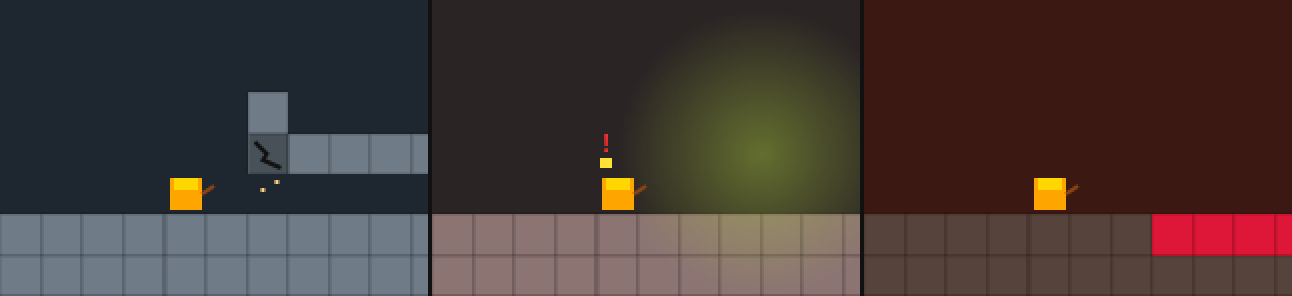
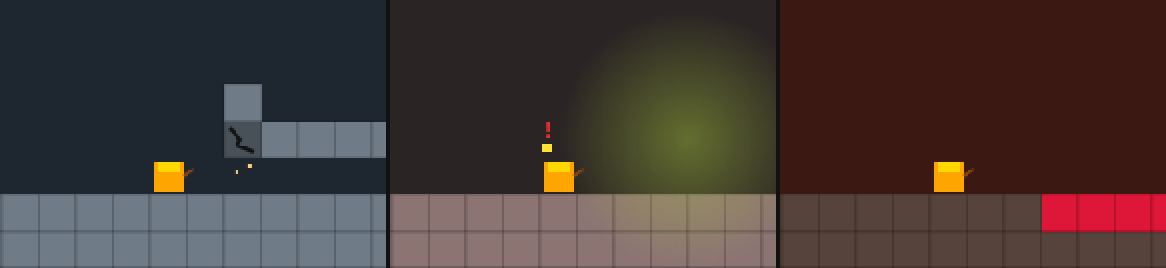
docs: новые скриншоты 1.8.0
Assisted-by: Claude (Anthropic)

diff --git a/README.md b/README.md
@@ -8,7 +8,7 @@
 
 ![Общий вид игры](docs/screenshots/overview.png)
 
-*Поверхность с лавкой скупщика, справа — панель: здоровье, рюкзак с содержимым, деньги, инструменты, сохранения.*
+*Слева — сохранения, радио, видео и настройки, в центре — игра, справа — статистика: здоровье, рюкзак, монеты, инструменты, персонаж.*
 
 ## Возможности
 
@@ -96,6 +96,10 @@
 
 Список видео хранится в браузере и в сохранения игры не попадает.
 
+![Видео в виде телевизора](docs/screenshots/video.png)
+
+*Видео в виде «телевизор» (включается в настройках): список своих роликов с YouTube, RuTube, VK.*
+
 ### Telegram
 
 Игру можно запускать из Telegram-бота как мини-приложение — без своего сервера: бот открывает игру с сайта. Как настроить бота и что вписать в @BotFather — в [TELEGRAM.md](TELEGRAM.md). Внутри Telegram игра сама разворачивается во весь экран и отключает «свайп вниз — закрыть», чтобы он не мешал копать.
@@ -114,6 +118,10 @@
 - **Поменять панели местами**: статистика слева, а сохранения, радио и настройки справа. Действует на широком экране.
 
 Настройки хранятся в браузере и в сохранения игры не попадают. На телефоне уведомления всегда сверху, под сводкой: внизу экрана кнопки.
+
+![Окно настроек](docs/screenshots/settings.png)
+
+*Настройки: положение уведомлений, вид радио и видео, панели местами.*
 
 ### Радио
 
@@ -165,11 +173,15 @@
 
 Когда очков хватает на следующий уровень, в лавке нужно выпить **тоник** — он стоит 120 монет × текущий уровень (со 2 на 3 — 240 монет). Очков нужно: силе — 40 × уровень, выносливости — 100 × уровень. При смерти характеристики и очки не теряются.
 
+![Окно персонажа](docs/screenshots/character.png)
+
+*Окно персонажа: уровни, очки, сколько стоит следующий тоник и на сколько уровней уже хватает очков.*
+
 ### Рюкзак
 
 ![Панель статистики](docs/screenshots/panel.png)
 
-*Рюкзак на всю ширину: что внутри, сколько стоит, вес и замедление.*
+*Панель: рюкзак с содержимым и стоимостью, деньги в монетах, инструменты, снаряжение, лечение и персонаж.*
 
 - **Ёмкость и свойства.**
 
@@ -213,6 +225,11 @@
 Персонаж прыгает на 1.67 блока, поэтому по прямой шахте без снаряжения не подняться. Есть три способа со снаряжением — и один без.
 
 **Без снаряжения — ступеньками.** `W` + `Пробел` копает вверх: сначала блок над головой, потом вверх-вперёд и ещё на блок выше. Получается ступенька — запрыгни на неё (`W` и шаг вперёд) и копай следующую. Медленно (ржавой киркой — около двух секунд на метр), зато выбраться можно с любой глубины, даже без лестниц и денег. На телефоне — ▲ вместе с ⛏.
+
+![Ступеньки вверх](docs/screenshots/stairs.png)
+
+*Ступеньки, вырубленные копанием вверх: так можно выбраться с любой глубины без лестниц.*
+
 
 ![Лестница и верёвка](docs/screenshots/climbing.png)
 

diff --git a/CHANGELOG.md b/CHANGELOG.md
@@ -7,6 +7,9 @@
 
 ## [Unreleased]
 
+### Изменено
+- Скриншоты в README и на сайте сняты заново с версии 1.8.0; добавлены ступеньки, окно персонажа, настройки, видео. На сайте — логотип «Шахтёр 1899»
+
 ### Планируется
 - Цели на выбор и финальный экран
 - Подробный список идей — в [ROADMAP.md](ROADMAP.md): интерфейс, радио со своими станциями, баланс, клеть, лавка, характеристики персонажа
